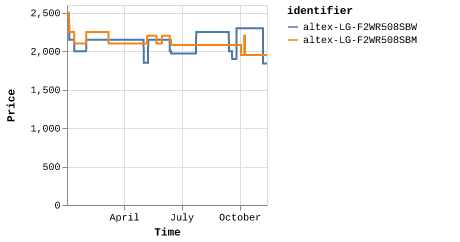
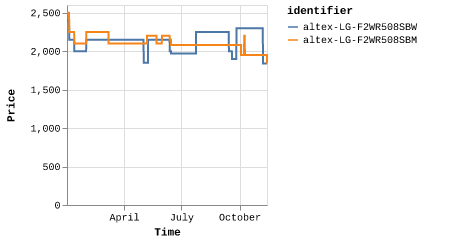
Latest scraping spalat: Wed Nov 13 13:00:14 UTC 2024

diff --git a/scrapes/spalat/altex-LG-F2WR508SBM.md b/scrapes/spalat/altex-LG-F2WR508SBM.md
@@ -1,3 +1,3 @@
-1949
+1839
 
 [Source](https://altex.ro/masina-de-spalat-rufe-frontala-slim-lg-f2wr508sbm-steam-8-kg-1200rpm-clasa-a-negru/cpd/MSFF2WR508SBM/)
